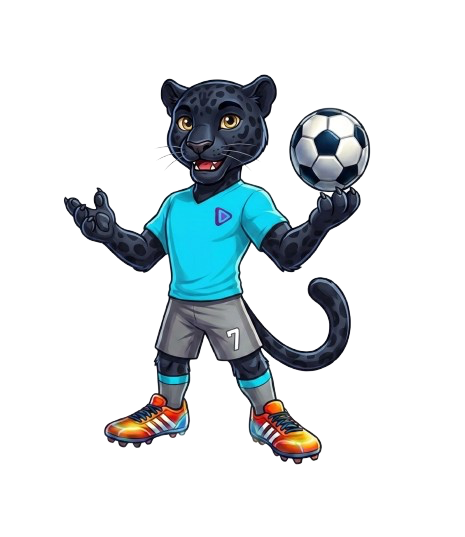
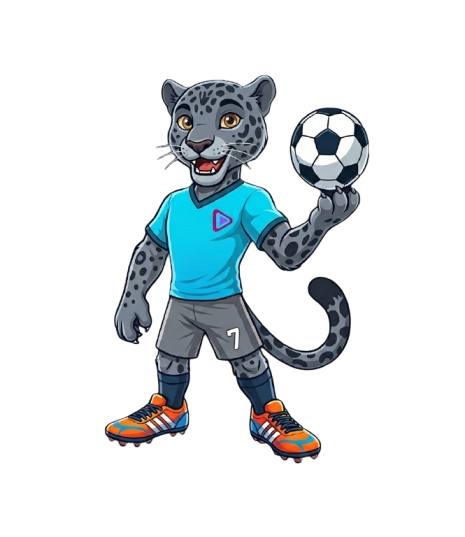
“text”

Changed region(s): [[0.1204, 0.1192, 0.8129, 0.8641]]

diff --git a/loadMonats.js b/loadMonats.js
@@ -12,12 +12,12 @@
       For a multi-tab workbook, also add &gid=TAB_GID&single=true
       to target the specific tab.
    2. The sheet must have these column headers in row 1:
-         month_key | month_label | challenge_name | hero_text | drill_order | drill_title | drill_meta | vimeo_url | xp | published
+         month_key | month_label | challenge_name | hero_text | drill_order | drill_title | drill_meta | vimeo_url | xp | published | badge_emoji
 
       Each ROW is one drill. Rows that share the same month_key
       belong to the same month. The first row of a month supplies
-      the month_label / challenge_name / hero_text (copy these
-      values down across all rows of that month for safety).
+      the month_label / challenge_name / hero_text / badge_emoji
+      (copy these values down across all rows of that month for safety).
 
       Column reference:
       - month_key:      e.g. "2026-06" - groups rows into months,
@@ -33,6 +33,10 @@
                         https://vimeo.com/1130122092/9e2782b01e
       - xp:             XP per drill (optional, default 20)
       - published:      Leave blank or "yes" to show; "no" to hide
+      - badge_emoji:    Optional emoji shown as the widget badge,
+                        e.g. "🔥" or "⚽" or "🌟". Defaults to 🔥
+                        if blank. Read from the first row of the
+                        month only.
 
    The loader picks the newest published month_key, builds a
    T7.challenge() with the drills, and auto-expands the list so
@@ -150,6 +154,8 @@
     var monthLabel = head.month_label || monthKey;
     var name = head.challenge_name || 'Challenge des Monats';
     var hero = head.hero_text || ('Diesen Monat: ' + name + '. Zeig was du drauf hast!');
+    /* Optional emoji from the sheet (column "badge_emoji"); falls back to fire */
+    var badge = (head.badge_emoji || '').trim() || '\ud83d\udd25';
 
     var lbl = document.getElementById(LABEL_ID);
     var nm  = document.getElementById(NAME_ID);
@@ -186,7 +192,7 @@
       T7.challenge({
         containerId: MOUNT_ID,
         title: name,
-        badge: '\ud83d\udd25',
+        badge: badge,
         moduleKey: moduleKey,
         heroText: hero,
         unlockMsg: '',